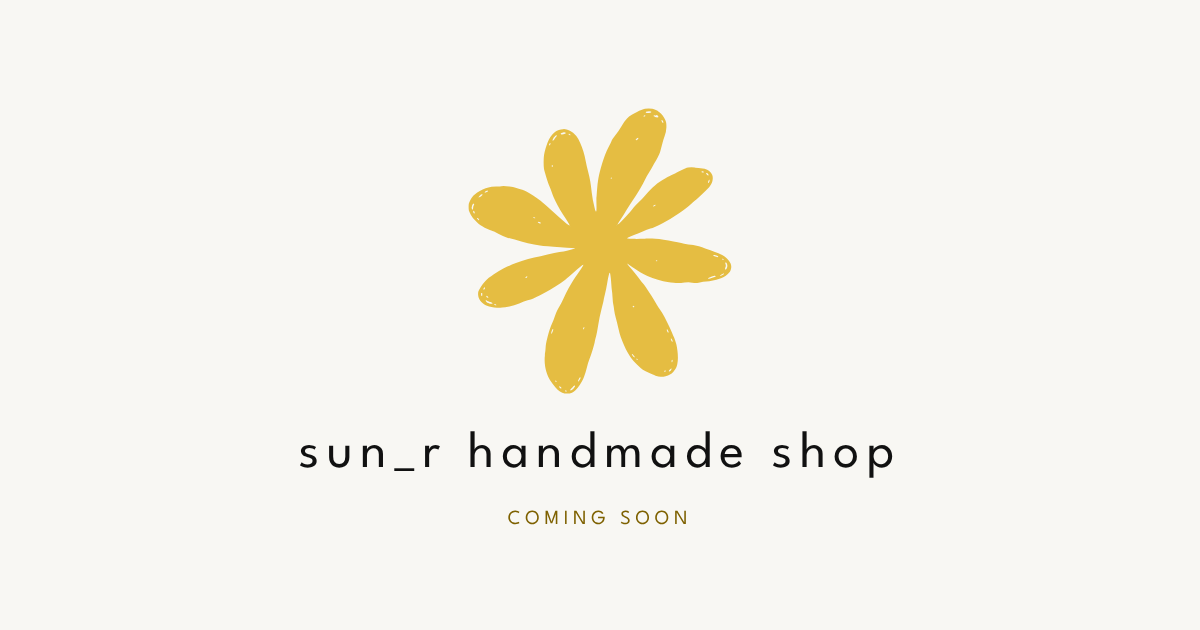
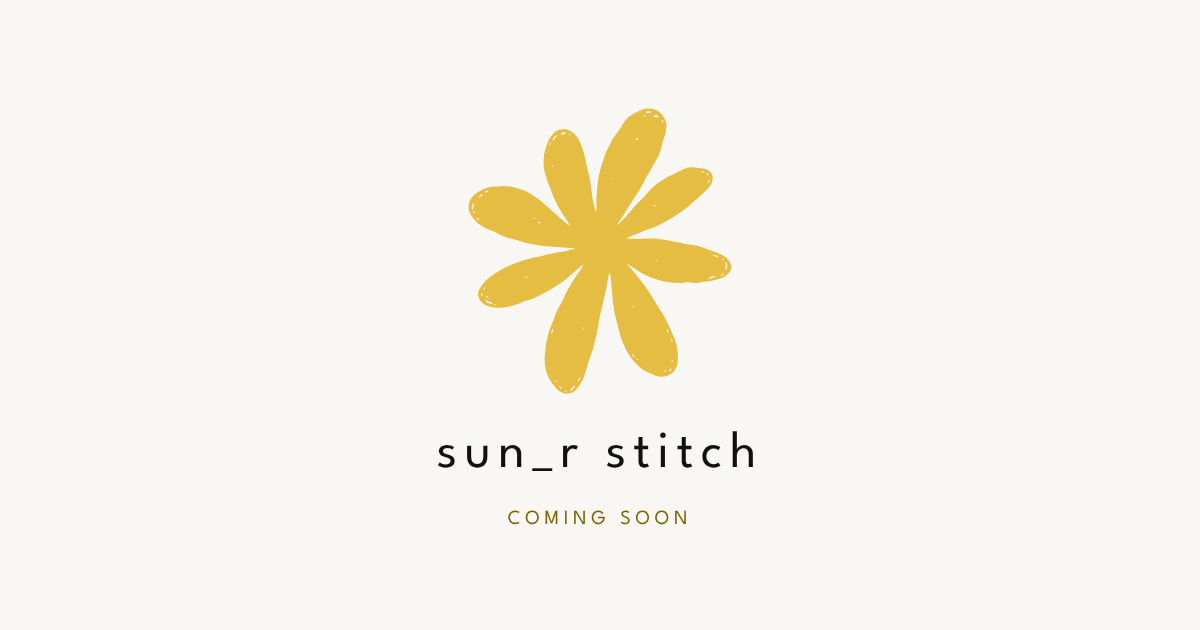
ブランド名を sun_r の頭文字に合わせて改名（stitch・useful・nail・renovation）
handmade shop→stitch、creative→useful、build→renovation。並び順も s・u・n・r に。URL は変更なし

Claude-Session: https://claude.ai/code/session_01XpsQxmtzfTpmSdUz357qFE

Changed region(s): [[0.2467, 0.6937, 0.74, 0.754]]

diff --git a/public/index.html b/public/index.html
@@ -4,12 +4,12 @@
 <meta charset="utf-8">
 <meta name="viewport" content="width=device-width, initial-scale=1">
 <title>sun_r brands</title>
-<meta name="description" content="sun_r brands — ネイルサロン sun_r nail、ハンドメイドショップ sun_r handmade shop、アプリ制作 sun_r creative、キッチン施工 sun_r build。">
+<meta name="description" content="sun_r brands — ハンドメイドショップ sun_r stitch、アプリ制作 sun_r useful、ネイルサロン sun_r nail、キッチン施工 sun_r renovation。">
 <link rel="canonical" href="https://sun-r-brands.pages.dev/">
 <meta property="og:type" content="website">
 <meta property="og:site_name" content="sun_r brands">
 <meta property="og:title" content="sun_r brands">
-<meta property="og:description" content="sun_r brands — ネイルサロン sun_r nail、ハンドメイドショップ sun_r handmade shop、アプリ制作 sun_r creative、キッチン施工 sun_r build。">
+<meta property="og:description" content="sun_r brands — ハンドメイドショップ sun_r stitch、アプリ制作 sun_r useful、ネイルサロン sun_r nail、キッチン施工 sun_r renovation。">
 <meta property="og:url" content="https://sun-r-brands.pages.dev/">
 <meta property="og:image" content="https://sun-r-brands.pages.dev/images/og-brands.png">
 <meta property="og:image:width" content="1200">
@@ -102,10 +102,10 @@ a.brand-row:active p:first-of-type,a.work-link:active p:first-of-type{color:#111
 <div class="wrap" style="display: flex; align-items: center; justify-content: space-between; gap: 24px; height: 76px">
 <a href="index.html" class="header-logo" style="text-decoration: none; display: flex; align-items: center; gap: 10px; font-family: 'League Spartan', sans-serif; font-weight: 400; font-size: 20px; letter-spacing: 0.12em; white-space: nowrap"><img src="images/logo-black.svg" alt="" width="36" height="36" style="width: 36px; height: 36px; display: block">sun_r brands</a>
 <nav class="navlinks" style="display: flex; gap: 36px; font-size: 13px; font-family: 'League Spartan', sans-serif; letter-spacing: 0.12em">
+<a href="shop.html" style="text-decoration: none">STITCH</a>
+<a href="creative.html" style="text-decoration: none">USEFUL</a>
 <a href="https://sun-r-nail.pages.dev/" data-nail-link target="_blank" rel="noopener" style="text-decoration: none">NAIL</a>
-<a href="shop.html" style="text-decoration: none">HANDMADE</a>
-<a href="creative.html" style="text-decoration: none">CREATIVE</a>
-<a href="build.html" style="text-decoration: none">BUILD</a>
+<a href="build.html" style="text-decoration: none">RENOVATION</a>
 </nav>
 <div style="display: flex; align-items: center; gap: 8px; flex: none"></div>
 </div>
@@ -114,7 +114,7 @@ a.brand-row:active p:first-of-type,a.work-link:active p:first-of-type{color:#111
 <div class="wrap hero">
 <div style="display: flex; flex-direction: column; align-items: center; text-align: center; gap: 24px">
 <h1 class="hero-logo" style="margin: 0"><img src="images/logo-black.svg" alt="sun_r" width="220" height="220" style="width: clamp(160px,20vw,220px); height: auto; display: block"></h1>
-<div class="hero-rise d1" style="display: flex; flex-direction: column; align-items: center; gap: 6px"><p style="margin: 0; font-family: 'League Spartan', sans-serif; font-weight: 400; font-size: clamp(28px,3.4vw,36px); letter-spacing: 0.14em; line-height: 1.2">sun_r</p><p class="label hero-links" style="margin: 0"><a href="https://sun-r-nail.pages.dev/" data-nail-link target="_blank" rel="noopener" style="text-decoration: none; color: inherit">NAIL</a> ・ <a href="shop.html" style="text-decoration: none; color: inherit">HANDMADE</a> ・ <a href="creative.html" style="text-decoration: none; color: inherit">CREATIVE</a> ・ <a href="build.html" style="text-decoration: none; color: inherit">BUILD</a></p></div>
+<div class="hero-rise d1" style="display: flex; flex-direction: column; align-items: center; gap: 6px"><p style="margin: 0; font-family: 'League Spartan', sans-serif; font-weight: 400; font-size: clamp(28px,3.4vw,36px); letter-spacing: 0.14em; line-height: 1.2">sun_r</p><p class="label hero-links" style="margin: 0"><a href="shop.html" style="text-decoration: none; color: inherit">STITCH</a> ・ <a href="creative.html" style="text-decoration: none; color: inherit">USEFUL</a> ・ <a href="https://sun-r-nail.pages.dev/" data-nail-link target="_blank" rel="noopener" style="text-decoration: none; color: inherit">NAIL</a> ・ <a href="build.html" style="text-decoration: none; color: inherit">RENOVATION</a></p></div>
 </div>
 </div>
 </section>
@@ -126,6 +126,22 @@ a.brand-row:active p:first-of-type,a.work-link:active p:first-of-type{color:#111
 <h2 style="margin: 0; font-family: 'League Spartan', sans-serif; font-weight: 400; font-size: clamp(26px,3vw,34px); letter-spacing: 0.1em; line-height: 1.3">sun_r brands</h2>
 </div>
 <div class="stagger" style="border-top: 1px solid #E6E1DB">
+<a href="shop.html" class="brand-row" style="text-decoration: none; color: inherit; display: flex; align-items: center; gap: clamp(16px,3vw,32px); padding: clamp(22px,3vw,32px) 0; border-bottom: 1px solid #E6E1DB">
+<span class="pop" style="position: relative; flex: none; display: block; width: clamp(34px,3.4vw,42px);"><img src="images/logo-yellow.svg" alt="" width="64" height="64" style="width: 100%; height: auto; display: block"></span>
+<div style="flex: 1 1 auto; min-width: 0">
+<p style="margin: 0; font-family: 'League Spartan', sans-serif; font-size: clamp(20px,2.4vw,26px); letter-spacing: 0.1em; line-height: 1.3;">stitch</p>
+<p style="margin: 4px 0 0; color: #555555; font-size: 14px">プリザーブドフラワーなどのハンドメイド作品</p>
+</div>
+<span class="brand-go" style="flex: none; font-family: 'League Spartan', sans-serif; font-size: 12px; letter-spacing: 0.18em; color: #7E6100; white-space: nowrap">COMING SOON</span>
+</a>
+<a href="creative.html" class="brand-row" style="text-decoration: none; color: inherit; display: flex; align-items: center; gap: clamp(16px,3vw,32px); padding: clamp(22px,3vw,32px) 0; border-bottom: 1px solid #E6E1DB">
+<span class="pop" style="position: relative; flex: none; display: block; width: clamp(34px,3.4vw,42px);"><img src="images/logo-greige.svg" alt="" width="64" height="64" style="width: 100%; height: auto; display: block"></span>
+<div style="flex: 1 1 auto; min-width: 0">
+<p style="margin: 0; font-family: 'League Spartan', sans-serif; font-size: clamp(20px,2.4vw,26px); letter-spacing: 0.1em; line-height: 1.3;">useful</p>
+<p style="margin: 4px 0 0; color: #555555; font-size: 14px">S/TOOL・NURS など、アプリとツールの制作</p>
+</div>
+<span class="brand-go" style="flex: none; font-family: 'League Spartan', sans-serif; font-size: 12px; letter-spacing: 0.18em; color: #6B5F53; white-space: nowrap">VIEW →</span>
+</a>
 <a href="https://sun-r-nail.pages.dev/" data-nail-link target="_blank" rel="noopener" class="brand-row" style="text-decoration: none; color: inherit; display: flex; align-items: center; gap: clamp(16px,3vw,32px); padding: clamp(22px,3vw,32px) 0; border-bottom: 1px solid #E6E1DB">
 <span class="pop" style="position: relative; flex: none; display: block; width: clamp(34px,3.4vw,42px);"><img src="images/logo-blue.svg" alt="" width="64" height="64" style="width: 100%; height: auto; display: block"></span>
 <div style="flex: 1 1 auto; min-width: 0">
@@ -134,26 +150,10 @@ a.brand-row:active p:first-of-type,a.work-link:active p:first-of-type{color:#111
 </div>
 <span class="brand-go" style="flex: none; font-family: 'League Spartan', sans-serif; font-size: 12px; letter-spacing: 0.18em; color: #134CA5; white-space: nowrap">VIEW →</span>
 </a>
-<a href="shop.html" class="brand-row" style="text-decoration: none; color: inherit; display: flex; align-items: center; gap: clamp(16px,3vw,32px); padding: clamp(22px,3vw,32px) 0; border-bottom: 1px solid #E6E1DB">
-<span class="pop" style="position: relative; flex: none; display: block; width: clamp(34px,3.4vw,42px);"><img src="images/logo-yellow.svg" alt="" width="64" height="64" style="width: 100%; height: auto; display: block"></span>
-<div style="flex: 1 1 auto; min-width: 0">
-<p style="margin: 0; font-family: 'League Spartan', sans-serif; font-size: clamp(20px,2.4vw,26px); letter-spacing: 0.1em; line-height: 1.3;">handmade shop</p>
-<p style="margin: 4px 0 0; color: #555555; font-size: 14px">プリザーブドフラワーなどのハンドメイド作品</p>
-</div>
-<span class="brand-go" style="flex: none; font-family: 'League Spartan', sans-serif; font-size: 12px; letter-spacing: 0.18em; color: #7E6100; white-space: nowrap">COMING SOON</span>
-</a>
-<a href="creative.html" class="brand-row" style="text-decoration: none; color: inherit; display: flex; align-items: center; gap: clamp(16px,3vw,32px); padding: clamp(22px,3vw,32px) 0; border-bottom: 1px solid #E6E1DB">
-<span class="pop" style="position: relative; flex: none; display: block; width: clamp(34px,3.4vw,42px);"><img src="images/logo-greige.svg" alt="" width="64" height="64" style="width: 100%; height: auto; display: block"></span>
-<div style="flex: 1 1 auto; min-width: 0">
-<p style="margin: 0; font-family: 'League Spartan', sans-serif; font-size: clamp(20px,2.4vw,26px); letter-spacing: 0.1em; line-height: 1.3;">creative</p>
-<p style="margin: 4px 0 0; color: #555555; font-size: 14px">S/TOOL・NURS など、アプリとツールの制作</p>
-</div>
-<span class="brand-go" style="flex: none; font-family: 'League Spartan', sans-serif; font-size: 12px; letter-spacing: 0.18em; color: #6B5F53; white-space: nowrap">VIEW →</span>
-</a>
 <a href="build.html" class="brand-row" style="text-decoration: none; color: inherit; display: flex; align-items: center; gap: clamp(16px,3vw,32px); padding: clamp(22px,3vw,32px) 0; border-bottom: 1px solid #E6E1DB">
 <span class="pop" style="position: relative; flex: none; display: block; width: clamp(34px,3.4vw,42px);"><img src="images/logo-orange.svg" alt="" width="64" height="64" style="width: 100%; height: auto; display: block"></span>
 <div style="flex: 1 1 auto; min-width: 0">
-<p style="margin: 0; font-family: 'League Spartan', sans-serif; font-size: clamp(20px,2.4vw,26px); letter-spacing: 0.1em; line-height: 1.3;">build</p>
+<p style="margin: 0; font-family: 'League Spartan', sans-serif; font-size: clamp(20px,2.4vw,26px); letter-spacing: 0.1em; line-height: 1.3;">renovation</p>
 <p style="margin: 4px 0 0; color: #555555; font-size: 14px">キッチンの施工会社</p>
 </div>
 <span class="brand-go" style="flex: none; font-family: 'League Spartan', sans-serif; font-size: 12px; letter-spacing: 0.18em; color: #AE5112; white-space: nowrap">COMING SOON</span>
@@ -170,11 +170,11 @@ a.brand-row:active p:first-of-type,a.work-link:active p:first-of-type{color:#111
 <p style="margin: 8px 0 0; color: #555555; font-size: 14px">sun_r の一文字ずつに、それぞれのブランドが入っています。</p>
 </div>
 <div class="name-grid stagger">
-<a class="name-cell" href="shop.html" style="text-decoration: none; color: inherit"><span class="name-letter" style="color: #7E6100">s</span><span class="name-text"><span class="name-word">stitch</span><span class="name-brand">handmade shop</span></span></a>
-<a class="name-cell" href="creative.html" style="text-decoration: none; color: inherit"><span class="name-letter" style="color: #6B5F53">u</span><span class="name-text"><span class="name-word">useful</span><span class="name-brand">creative</span></span></a>
-<a class="name-cell" href="https://sun-r-nail.pages.dev/" data-nail-link target="_blank" rel="noopener" style="text-decoration: none; color: inherit"><span class="name-letter" style="color: #134CA5">n</span><span class="name-text"><span class="name-word">nail</span><span class="name-brand">nail</span></span></a>
+<a class="name-cell" href="shop.html" style="text-decoration: none; color: inherit"><span class="name-letter" style="color: #7E6100">s</span><span class="name-text"><span class="name-word">stitch</span><span class="name-brand">handmade</span></span></a>
+<a class="name-cell" href="creative.html" style="text-decoration: none; color: inherit"><span class="name-letter" style="color: #6B5F53">u</span><span class="name-text"><span class="name-word">useful</span><span class="name-brand">apps &amp; tools</span></span></a>
+<a class="name-cell" href="https://sun-r-nail.pages.dev/" data-nail-link target="_blank" rel="noopener" style="text-decoration: none; color: inherit"><span class="name-letter" style="color: #134CA5">n</span><span class="name-text"><span class="name-word">nail</span><span class="name-brand">nail salon</span></span></a>
 <a class="name-cell" href="#brands" style="text-decoration: none; color: inherit"><span class="name-letter" style="color: #111111">_</span><span class="name-text"><span class="name-word">link</span><span class="name-brand">all brands</span></span></a>
-<a class="name-cell" href="build.html" style="text-decoration: none; color: inherit"><span class="name-letter" style="color: #AE5112">r</span><span class="name-text"><span class="name-word">renovation</span><span class="name-brand">build</span></span></a>
+<a class="name-cell" href="build.html" style="text-decoration: none; color: inherit"><span class="name-letter" style="color: #AE5112">r</span><span class="name-text"><span class="name-word">renovation</span><span class="name-brand">kitchen</span></span></a>
 </div>
 </div>
 </section>
@@ -192,7 +192,7 @@ a.brand-row:active p:first-of-type,a.work-link:active p:first-of-type{color:#111
 
 <footer style="border-top: 1px solid #E6E1DB; padding: 40px 0">
 <div class="wrap" style="display: flex; flex-wrap: wrap; justify-content: space-between; align-items: center; gap: 16px; font-size: 12px; color: #6B6B6B">
-<nav aria-label="sun_r のブランド" style="display: flex; flex-wrap: wrap; gap: 8px 20px; font-family: 'League Spartan', sans-serif; font-size: 13px; letter-spacing: 0.08em"><span aria-current="page" style="color: #111111">sun_r brands</span><a href="https://sun-r-nail.pages.dev/" data-nail-link target="_blank" rel="noopener" style="text-decoration: none; color: #6B6B6B">sun_r nail</a><a href="shop.html" style="text-decoration: none; color: #6B6B6B">handmade shop</a><a href="creative.html" style="text-decoration: none; color: #6B6B6B">creative</a><a href="build.html" style="text-decoration: none; color: #6B6B6B">build</a></nav>
+<nav aria-label="sun_r のブランド" style="display: flex; flex-wrap: wrap; gap: 8px 20px; font-family: 'League Spartan', sans-serif; font-size: 13px; letter-spacing: 0.08em"><span aria-current="page" style="color: #111111">sun_r brands</span><a href="shop.html" style="text-decoration: none; color: #6B6B6B">stitch</a><a href="creative.html" style="text-decoration: none; color: #6B6B6B">useful</a><a href="https://sun-r-nail.pages.dev/" data-nail-link target="_blank" rel="noopener" style="text-decoration: none; color: #6B6B6B">sun_r nail</a><a href="build.html" style="text-decoration: none; color: #6B6B6B">renovation</a></nav>
 <span style="font-family: 'League Spartan', sans-serif; letter-spacing: 0.08em">© sun_r</span>
 </div>
 </footer>

diff --git a/public/shop.html b/public/shop.html
@@ -3,13 +3,13 @@
 <head>
 <meta charset="utf-8">
 <meta name="viewport" content="width=device-width, initial-scale=1">
-<title>sun_r handmade shop｜COMING SOON</title>
-<meta name="description" content="sun_r handmade shop — プリザーブドフラワーなどのハンドメイド作品のショップ（オープン準備中）。">
+<title>sun_r stitch｜COMING SOON</title>
+<meta name="description" content="sun_r stitch — プリザーブドフラワーなどのハンドメイド作品のショップ（オープン準備中）。">
 <link rel="canonical" href="https://sun-r-brands.pages.dev/shop">
 <meta property="og:type" content="website">
 <meta property="og:site_name" content="sun_r brands">
-<meta property="og:title" content="sun_r handmade shop｜COMING SOON">
-<meta property="og:description" content="sun_r handmade shop — プリザーブドフラワーなどのハンドメイド作品のショップ（オープン準備中）。">
+<meta property="og:title" content="sun_r stitch｜COMING SOON">
+<meta property="og:description" content="sun_r stitch — プリザーブドフラワーなどのハンドメイド作品のショップ（オープン準備中）。">
 <meta property="og:url" content="https://sun-r-brands.pages.dev/shop">
 <meta property="og:image" content="https://sun-r-brands.pages.dev/images/og-shop.png">
 <meta property="og:image:width" content="1200">
@@ -86,7 +86,7 @@ a.brand-row:active p:first-of-type,a.work-link:active p:first-of-type{color:#111
 <div style="font-family: 'Noto Sans JP', 'Hiragino Sans', sans-serif; color: #111111; background: #F8F7F3; font-size: 16px; line-height: 1.9">
 <header style="border-bottom: 1px solid #E6E1DB; background: #F8F7F3">
 <div class="wrap" style="display: flex; align-items: center; justify-content: space-between; gap: 24px; height: 76px">
-<a href="index.html" class="header-logo" style="text-decoration: none; display: flex; align-items: center; gap: 10px; font-family: 'League Spartan', sans-serif; font-weight: 400; font-size: 20px; letter-spacing: 0.12em; white-space: nowrap"><img src="images/logo-yellow.svg" alt="" width="36" height="36" style="width: 36px; height: 36px; display: block">sun_r handmade shop</a>
+<a href="index.html" class="header-logo" style="text-decoration: none; display: flex; align-items: center; gap: 10px; font-family: 'League Spartan', sans-serif; font-weight: 400; font-size: 20px; letter-spacing: 0.12em; white-space: nowrap"><img src="images/logo-yellow.svg" alt="" width="36" height="36" style="width: 36px; height: 36px; display: block">sun_r stitch</a>
 <nav class="navlinks" style="display: flex; gap: 36px; font-size: 13px; font-family: 'League Spartan', sans-serif; letter-spacing: 0.12em">
 <a href="#items" style="text-decoration: none">ITEMS</a>
 <a href="#news" style="text-decoration: none">NEWS</a>
@@ -97,8 +97,8 @@ a.brand-row:active p:first-of-type,a.work-link:active p:first-of-type{color:#111
 <section id="top" style="padding: clamp(96px,16vw,200px) 0 clamp(80px,12vw,160px)">
 <div class="wrap hero">
 <div style="display: flex; flex-direction: column; align-items: center; text-align: center; gap: 24px">
-<h1 class="hero-logo" style="margin: 0; display: inline-block"><span class="hero-mark" style="position: relative; display: block"><img src="images/logo-yellow.svg" alt="sun_r handmade shop" width="220" height="220" style="width: clamp(160px,20vw,220px); height: auto; display: block"></span></h1>
-<div class="hero-rise d1" style="display: flex; flex-direction: column; align-items: center; gap: 6px"><p style="margin: 0; font-family: 'League Spartan', sans-serif; font-weight: 400; font-size: clamp(26px,3.2vw,34px); letter-spacing: 0.14em; line-height: 1.2; color: #111111">sun_r handmade shop</p><p class="label" style="margin: 0">PRESERVED FLOWER &amp; HANDMADE</p></div>
+<h1 class="hero-logo" style="margin: 0; display: inline-block"><span class="hero-mark" style="position: relative; display: block"><img src="images/logo-yellow.svg" alt="sun_r stitch" width="220" height="220" style="width: clamp(160px,20vw,220px); height: auto; display: block"></span></h1>
+<div class="hero-rise d1" style="display: flex; flex-direction: column; align-items: center; gap: 6px"><p style="margin: 0; font-family: 'League Spartan', sans-serif; font-weight: 400; font-size: clamp(26px,3.2vw,34px); letter-spacing: 0.14em; line-height: 1.2; color: #111111">sun_r stitch</p><p class="label" style="margin: 0">PRESERVED FLOWER &amp; HANDMADE</p></div>
 <div class="hero-rise d2" style="margin-top: 16px"><span style="display: inline-block; border: 1px solid #7E6100; color: #7E6100; border-radius: 999px; padding: 10px 26px; font-family: 'League Spartan', sans-serif; font-size: 13px; letter-spacing: 0.24em">COMING SOON</span></div>
 </div>
 </div>
@@ -132,7 +132,7 @@ a.brand-row:active p:first-of-type,a.work-link:active p:first-of-type{color:#111
 
 <footer style="border-top: 1px solid #E6E1DB; padding: 40px 0">
 <div class="wrap" style="display: flex; flex-wrap: wrap; justify-content: space-between; align-items: center; gap: 16px; font-size: 12px; color: #6B6B6B">
-<nav aria-label="sun_r のブランド" style="display: flex; flex-wrap: wrap; gap: 8px 20px; font-family: 'League Spartan', sans-serif; font-size: 13px; letter-spacing: 0.08em"><a href="index.html" style="text-decoration: none; color: #6B6B6B">sun_r brands</a><a href="https://sun-r-nail.pages.dev/" data-nail-link target="_blank" rel="noopener" style="text-decoration: none; color: #6B6B6B">sun_r nail</a><span aria-current="page" style="color: #111111">handmade shop</span><a href="creative.html" style="text-decoration: none; color: #6B6B6B">creative</a><a href="build.html" style="text-decoration: none; color: #6B6B6B">build</a></nav>
+<nav aria-label="sun_r のブランド" style="display: flex; flex-wrap: wrap; gap: 8px 20px; font-family: 'League Spartan', sans-serif; font-size: 13px; letter-spacing: 0.08em"><a href="index.html" style="text-decoration: none; color: #6B6B6B">sun_r brands</a><span aria-current="page" style="color: #111111">stitch</span><a href="creative.html" style="text-decoration: none; color: #6B6B6B">useful</a><a href="https://sun-r-nail.pages.dev/" data-nail-link target="_blank" rel="noopener" style="text-decoration: none; color: #6B6B6B">sun_r nail</a><a href="build.html" style="text-decoration: none; color: #6B6B6B">renovation</a></nav>
 <span style="font-family: 'League Spartan', sans-serif; letter-spacing: 0.08em">© sun_r</span>
 </div>
 </footer>

diff --git a/public/build.html b/public/build.html
@@ -3,13 +3,13 @@
 <head>
 <meta charset="utf-8">
 <meta name="viewport" content="width=device-width, initial-scale=1">
-<title>sun_r build｜COMING SOON</title>
-<meta name="description" content="sun_r build — キッチンの施工を手がける、sun_r の施工会社（ホームページ準備中）。">
+<title>sun_r renovation｜COMING SOON</title>
+<meta name="description" content="sun_r renovation — キッチンの施工を手がける、sun_r の施工会社（ホームページ準備中）。">
 <link rel="canonical" href="https://sun-r-brands.pages.dev/build">
 <meta property="og:type" content="website">
 <meta property="og:site_name" content="sun_r brands">
-<meta property="og:title" content="sun_r build｜COMING SOON">
-<meta property="og:description" content="sun_r build — キッチンの施工を手がける、sun_r の施工会社（ホームページ準備中）。">
+<meta property="og:title" content="sun_r renovation｜COMING SOON">
+<meta property="og:description" content="sun_r renovation — キッチンの施工を手がける、sun_r の施工会社（ホームページ準備中）。">
 <meta property="og:url" content="https://sun-r-brands.pages.dev/build">
 <meta property="og:image" content="https://sun-r-brands.pages.dev/images/og-build.png">
 <meta property="og:image:width" content="1200">
@@ -86,7 +86,7 @@ a.brand-row:active p:first-of-type,a.work-link:active p:first-of-type{color:#111
 <div style="font-family: 'Noto Sans JP', 'Hiragino Sans', sans-serif; color: #111111; background: #F8F7F3; font-size: 16px; line-height: 1.9">
 <header style="border-bottom: 1px solid #E6E1DB; background: #F8F7F3">
 <div class="wrap" style="display: flex; align-items: center; justify-content: space-between; gap: 24px; height: 76px">
-<a href="index.html" class="header-logo" style="text-decoration: none; display: flex; align-items: center; gap: 10px; font-family: 'League Spartan', sans-serif; font-weight: 400; font-size: 20px; letter-spacing: 0.12em; white-space: nowrap"><img src="images/logo-orange.svg" alt="" width="36" height="36" style="width: 36px; height: 36px; display: block">sun_r build</a>
+<a href="index.html" class="header-logo" style="text-decoration: none; display: flex; align-items: center; gap: 10px; font-family: 'League Spartan', sans-serif; font-weight: 400; font-size: 20px; letter-spacing: 0.12em; white-space: nowrap"><img src="images/logo-orange.svg" alt="" width="36" height="36" style="width: 36px; height: 36px; display: block">sun_r renovation</a>
 <nav class="navlinks" style="display: flex; gap: 36px; font-size: 13px; font-family: 'League Spartan', sans-serif; letter-spacing: 0.12em">
 <a href="#service" style="text-decoration: none">SERVICE</a>
 <a href="#news" style="text-decoration: none">NEWS</a>
@@ -97,8 +97,8 @@ a.brand-row:active p:first-of-type,a.work-link:active p:first-of-type{color:#111
 <section id="top" style="padding: clamp(96px,16vw,200px) 0 clamp(80px,12vw,160px)">
 <div class="wrap hero">
 <div style="display: flex; flex-direction: column; align-items: center; text-align: center; gap: 24px">
-<h1 class="hero-logo" style="margin: 0; display: inline-block"><span class="hero-mark" style="position: relative; display: block"><img src="images/logo-orange.svg" alt="sun_r build" width="220" height="220" style="width: clamp(160px,20vw,220px); height: auto; display: block"></span></h1>
-<div class="hero-rise d1" style="display: flex; flex-direction: column; align-items: center; gap: 6px"><p style="margin: 0; font-family: 'League Spartan', sans-serif; font-weight: 400; font-size: clamp(26px,3.2vw,34px); letter-spacing: 0.14em; line-height: 1.2; color: #111111">sun_r build</p><p class="label" style="margin: 0">KITCHEN CONSTRUCTION</p></div>
+<h1 class="hero-logo" style="margin: 0; display: inline-block"><span class="hero-mark" style="position: relative; display: block"><img src="images/logo-orange.svg" alt="sun_r renovation" width="220" height="220" style="width: clamp(160px,20vw,220px); height: auto; display: block"></span></h1>
+<div class="hero-rise d1" style="display: flex; flex-direction: column; align-items: center; gap: 6px"><p style="margin: 0; font-family: 'League Spartan', sans-serif; font-weight: 400; font-size: clamp(26px,3.2vw,34px); letter-spacing: 0.14em; line-height: 1.2; color: #111111">sun_r renovation</p><p class="label" style="margin: 0">KITCHEN CONSTRUCTION</p></div>
 <div class="hero-rise d2" style="margin-top: 16px"><span style="display: inline-block; border: 1px solid #AE5112; color: #AE5112; border-radius: 999px; padding: 10px 26px; font-family: 'League Spartan', sans-serif; font-size: 13px; letter-spacing: 0.24em">COMING SOON</span></div>
 </div>
 </div>
@@ -129,7 +129,7 @@ a.brand-row:active p:first-of-type,a.work-link:active p:first-of-type{color:#111
 
 <footer style="border-top: 1px solid #E6E1DB; padding: 40px 0">
 <div class="wrap" style="display: flex; flex-wrap: wrap; justify-content: space-between; align-items: center; gap: 16px; font-size: 12px; color: #6B6B6B">
-<nav aria-label="sun_r のブランド" style="display: flex; flex-wrap: wrap; gap: 8px 20px; font-family: 'League Spartan', sans-serif; font-size: 13px; letter-spacing: 0.08em"><a href="index.html" style="text-decoration: none; color: #6B6B6B">sun_r brands</a><a href="https://sun-r-nail.pages.dev/" data-nail-link target="_blank" rel="noopener" style="text-decoration: none; color: #6B6B6B">sun_r nail</a><a href="shop.html" style="text-decoration: none; color: #6B6B6B">handmade shop</a><a href="creative.html" style="text-decoration: none; color: #6B6B6B">creative</a><span aria-current="page" style="color: #111111">build</span></nav>
+<nav aria-label="sun_r のブランド" style="display: flex; flex-wrap: wrap; gap: 8px 20px; font-family: 'League Spartan', sans-serif; font-size: 13px; letter-spacing: 0.08em"><a href="index.html" style="text-decoration: none; color: #6B6B6B">sun_r brands</a><a href="shop.html" style="text-decoration: none; color: #6B6B6B">stitch</a><a href="creative.html" style="text-decoration: none; color: #6B6B6B">useful</a><a href="https://sun-r-nail.pages.dev/" data-nail-link target="_blank" rel="noopener" style="text-decoration: none; color: #6B6B6B">sun_r nail</a><span aria-current="page" style="color: #111111">renovation</span></nav>
 <span style="font-family: 'League Spartan', sans-serif; letter-spacing: 0.08em">© sun_r</span>
 </div>
 </footer>

diff --git a/public/creative.html b/public/creative.html
@@ -3,13 +3,13 @@
 <head>
 <meta charset="utf-8">
 <meta name="viewport" content="width=device-width, initial-scale=1">
-<title>sun_r creative</title>
-<meta name="description" content="sun_r creative — 個人事業 patch が開発・提供する、S/TOOL・NURS などのアプリとツール。">
+<title>sun_r useful</title>
+<meta name="description" content="sun_r useful — 個人事業 patch が開発・提供する、S/TOOL・NURS などのアプリとツール。">
 <link rel="canonical" href="https://sun-r-brands.pages.dev/creative">
 <meta property="og:type" content="website">
 <meta property="og:site_name" content="sun_r brands">
-<meta property="og:title" content="sun_r creative">
-<meta property="og:description" content="sun_r creative — 個人事業 patch が開発・提供する、S/TOOL・NURS などのアプリとツール。">
+<meta property="og:title" content="sun_r useful">
+<meta property="og:description" content="sun_r useful — 個人事業 patch が開発・提供する、S/TOOL・NURS などのアプリとツール。">
 <meta property="og:url" content="https://sun-r-brands.pages.dev/creative">
 <meta property="og:image" content="https://sun-r-brands.pages.dev/images/og-creative.png">
 <meta property="og:image:width" content="1200">
@@ -89,7 +89,7 @@ a.brand-row:active p:first-of-type,a.work-link:active p:first-of-type{color:#111
 <div style="font-family: 'Noto Sans JP', 'Hiragino Sans', sans-serif; color: #111111; background: #F8F7F3; font-size: 16px; line-height: 1.9">
 <header style="border-bottom: 1px solid #E6E1DB; background: #F8F7F3">
 <div class="wrap" style="display: flex; align-items: center; justify-content: space-between; gap: 24px; height: 76px">
-<a href="index.html" class="header-logo" style="text-decoration: none; display: flex; align-items: center; gap: 10px; font-family: 'League Spartan', sans-serif; font-weight: 400; font-size: 20px; letter-spacing: 0.12em; white-space: nowrap"><img src="images/logo-greige.svg" alt="" width="36" height="36" style="width: 36px; height: 36px; display: block">sun_r creative</a>
+<a href="index.html" class="header-logo" style="text-decoration: none; display: flex; align-items: center; gap: 10px; font-family: 'League Spartan', sans-serif; font-weight: 400; font-size: 20px; letter-spacing: 0.12em; white-space: nowrap"><img src="images/logo-greige.svg" alt="" width="36" height="36" style="width: 36px; height: 36px; display: block">sun_r useful</a>
 <nav class="navlinks" style="display: flex; gap: 36px; font-size: 13px; font-family: 'League Spartan', sans-serif; letter-spacing: 0.12em">
 <a href="#works" style="text-decoration: none">WORKS</a>
 </nav>
@@ -99,8 +99,8 @@ a.brand-row:active p:first-of-type,a.work-link:active p:first-of-type{color:#111
 <section id="top" style="padding: clamp(96px,16vw,200px) 0 clamp(80px,12vw,160px)">
 <div class="wrap hero">
 <div style="display: flex; flex-direction: column; align-items: center; text-align: center; gap: 24px">
-<h1 class="hero-logo" style="margin: 0; display: inline-block"><span class="hero-mark" style="position: relative; display: block"><img src="images/logo-greige.svg" alt="sun_r creative" width="220" height="220" style="width: clamp(160px,20vw,220px); height: auto; display: block"></span></h1>
-<div class="hero-rise d1" style="display: flex; flex-direction: column; align-items: center; gap: 6px"><p style="margin: 0; font-family: 'League Spartan', sans-serif; font-weight: 400; font-size: clamp(26px,3.2vw,34px); letter-spacing: 0.14em; line-height: 1.2; color: #111111">sun_r creative</p><p class="label" style="margin: 0">APPS &amp; TOOLS</p></div>
+<h1 class="hero-logo" style="margin: 0; display: inline-block"><span class="hero-mark" style="position: relative; display: block"><img src="images/logo-greige.svg" alt="sun_r useful" width="220" height="220" style="width: clamp(160px,20vw,220px); height: auto; display: block"></span></h1>
+<div class="hero-rise d1" style="display: flex; flex-direction: column; align-items: center; gap: 6px"><p style="margin: 0; font-family: 'League Spartan', sans-serif; font-weight: 400; font-size: clamp(26px,3.2vw,34px); letter-spacing: 0.14em; line-height: 1.2; color: #111111">sun_r useful</p><p class="label" style="margin: 0">APPS &amp; TOOLS</p></div>
 <div class="hero-rise d2" style="margin-top: 16px"><span style="display: inline-block; border: 1px solid #6B5F53; color: #6B5F53; border-radius: 999px; padding: 10px 26px; font-family: 'League Spartan', sans-serif; font-size: 13px; letter-spacing: 0.24em">IN DEVELOPMENT</span></div>
 </div>
 </div>
@@ -159,7 +159,7 @@ a.brand-row:active p:first-of-type,a.work-link:active p:first-of-type{color:#111
 
 <footer style="border-top: 1px solid #E6E1DB; padding: 40px 0">
 <div class="wrap" style="display: flex; flex-wrap: wrap; justify-content: space-between; align-items: center; gap: 16px; font-size: 12px; color: #6B6B6B">
-<nav aria-label="sun_r のブランド" style="display: flex; flex-wrap: wrap; gap: 8px 20px; font-family: 'League Spartan', sans-serif; font-size: 13px; letter-spacing: 0.08em"><a href="index.html" style="text-decoration: none; color: #6B6B6B">sun_r brands</a><a href="https://sun-r-nail.pages.dev/" data-nail-link target="_blank" rel="noopener" style="text-decoration: none; color: #6B6B6B">sun_r nail</a><a href="shop.html" style="text-decoration: none; color: #6B6B6B">handmade shop</a><span aria-current="page" style="color: #111111">creative</span><a href="build.html" style="text-decoration: none; color: #6B6B6B">build</a></nav>
+<nav aria-label="sun_r のブランド" style="display: flex; flex-wrap: wrap; gap: 8px 20px; font-family: 'League Spartan', sans-serif; font-size: 13px; letter-spacing: 0.08em"><a href="index.html" style="text-decoration: none; color: #6B6B6B">sun_r brands</a><a href="shop.html" style="text-decoration: none; color: #6B6B6B">stitch</a><span aria-current="page" style="color: #111111">useful</span><a href="https://sun-r-nail.pages.dev/" data-nail-link target="_blank" rel="noopener" style="text-decoration: none; color: #6B6B6B">sun_r nail</a><a href="build.html" style="text-decoration: none; color: #6B6B6B">renovation</a></nav>
 <span style="font-family: 'League Spartan', sans-serif; letter-spacing: 0.08em">© sun_r</span>
 </div>
 </footer>

diff --git a/public/404.html b/public/404.html
@@ -46,10 +46,10 @@ header{position:sticky;top:0;z-index:10}
 <div class="wrap" style="display: flex; align-items: center; justify-content: space-between; gap: 24px; height: 76px">
 <a href="/" class="header-logo" style="text-decoration: none; display: flex; align-items: center; gap: 10px; font-family: 'League Spartan', sans-serif; font-weight: 400; font-size: 20px; letter-spacing: 0.12em; white-space: nowrap"><img src="/images/logo-black.svg" alt="" width="36" height="36" style="width: 36px; height: 36px; display: block">sun_r brands</a>
 <nav class="navlinks" style="display: flex; gap: 36px; font-size: 13px; font-family: 'League Spartan', sans-serif; letter-spacing: 0.12em">
+<a href="/shop.html" style="text-decoration: none">STITCH</a>
+<a href="/creative.html" style="text-decoration: none">USEFUL</a>
 <a href="https://sun-r-nail.pages.dev/" data-nail-link target="_blank" rel="noopener" style="text-decoration: none">NAIL</a>
-<a href="/shop.html" style="text-decoration: none">HANDMADE</a>
-<a href="/creative.html" style="text-decoration: none">CREATIVE</a>
-<a href="/build.html" style="text-decoration: none">BUILD</a>
+<a href="/build.html" style="text-decoration: none">RENOVATION</a>
 </nav>
 </div>
 </header>
@@ -66,7 +66,7 @@ header{position:sticky;top:0;z-index:10}
 </main>
 <footer style="border-top: 1px solid #E6E1DB; padding: 40px 0">
 <div class="wrap" style="display: flex; flex-wrap: wrap; justify-content: space-between; align-items: center; gap: 16px; font-size: 12px; color: #6B6B6B">
-<nav aria-label="sun_r のブランド" style="display: flex; flex-wrap: wrap; gap: 8px 20px; font-family: 'League Spartan', sans-serif; font-size: 13px; letter-spacing: 0.08em"><a href="/" style="text-decoration: none; color: #6B6B6B">sun_r brands</a><a href="https://sun-r-nail.pages.dev/" data-nail-link target="_blank" rel="noopener" style="text-decoration: none; color: #6B6B6B">sun_r nail</a><a href="/shop.html" style="text-decoration: none; color: #6B6B6B">handmade shop</a><a href="/creative.html" style="text-decoration: none; color: #6B6B6B">creative</a><a href="/build.html" style="text-decoration: none; color: #6B6B6B">build</a></nav>
+<nav aria-label="sun_r のブランド" style="display: flex; flex-wrap: wrap; gap: 8px 20px; font-family: 'League Spartan', sans-serif; font-size: 13px; letter-spacing: 0.08em"><a href="/" style="text-decoration: none; color: #6B6B6B">sun_r brands</a><a href="/shop.html" style="text-decoration: none; color: #6B6B6B">stitch</a><a href="/creative.html" style="text-decoration: none; color: #6B6B6B">useful</a><a href="https://sun-r-nail.pages.dev/" data-nail-link target="_blank" rel="noopener" style="text-decoration: none; color: #6B6B6B">sun_r nail</a><a href="/build.html" style="text-decoration: none; color: #6B6B6B">renovation</a></nav>
 <span style="font-family: 'League Spartan', sans-serif; letter-spacing: 0.08em">© sun_r</span>
 </div>
 </footer>

diff --git a/CLAUDE.md b/CLAUDE.md
@@ -15,9 +15,9 @@ sun_r nail は別サイト・別リポジトリだが、上の作業ルールの
 ```
 public/
   index.html     ブランドトップ（4ブランドの入口）     黒の花
-  shop.html      sun_r handmade shop（COMING SOON）    マスタード
-  creative.html  sun_r creative（アプリ）               グレージュ
-  build.html     sun_r build（キッチン施工・COMING SOON） オレンジ
+  shop.html      sun_r stitch（旧 handmade shop・COMING SOON）  マスタード
+  creative.html  sun_r useful（旧 creative・アプリ）            グレージュ
+  build.html     sun_r renovation（旧 build・キッチン施工・COMING SOON） オレンジ
   images/        ロゴ（手描きの花：black/blue/orange/yellow/greige）、OGP画像（og-*.png）
 wrangler.jsonc   Cloudflare 設定（name: sun-r-brands）
 ```
@@ -25,11 +25,17 @@ wrangler.jsonc   Cloudflare 設定（name: sun-r-brands）
 | ブランド | 色（ロゴ／帯） | 文字用の濃い色 | 行き先 |
 |---|---|---|---|
 | sun_r nail | `#134CA5`（青い花 `logo-blue.svg`。nail サイトのロゴと同じ） | `#134CA5` | **外部サイト** https://sun-r-nail.pages.dev/ |
-| sun_r handmade shop | `#E5BD42`（帯の文字は黒） | `#7E6100` | shop.html |
-| sun_r creative | `#9A8C7E`（帯も同色・文字は黒） | `#6B5F53` | creative.html |
-| sun_r build | `#E2712A`（帯 `#AE5112`） | `#AE5112` | build.html |
+| sun_r stitch（旧 handmade shop） | `#E5BD42`（帯の文字は黒） | `#7E6100` | shop.html |
+| sun_r useful（旧 creative） | `#9A8C7E`（帯も同色・文字は黒） | `#6B5F53` | creative.html |
+| sun_r renovation（旧 build） | `#E2712A`（帯 `#AE5112`） | `#AE5112` | build.html |
 
 共通：背景 生成り `#F8F7F3`／本文 黒 `#111111`／英字 League Spartan Regular（オーナー支給の TTF を woff2 に変換し `public/fonts/league-spartan-regular.woff2` から自前で配信。SIL OFL）／和文 Noto Sans JP（2026-11-23 に Jost／Zen Kaku Gothic New から変更。英字は Smooch Sans・Science Gothic・Caveat・Knewave・Boogaloo・Sue Ellen Francisco・Pacifico・Abril Fatface・Cinzel・Special Elite・Mrs Saint Delafield・Abril Fatface を経て League Spartan に）。波の音は**入れない**（nail サイト専用）。
+
+## ブランド名（2026-11-23 変更）
+- sun_r の頭文字にそろえて改名：s＝**stitch**（旧 handmade shop）／u＝**useful**（旧 creative）／n＝**nail**／_＝つなぐ線／r＝**renovation**（旧 build）
+- 並び順はどこでも stitch・useful・nail・renovation（ヘッダー・フッター・トップの一覧・ヒーローのラベル）
+- URL（/shop・/creative・/build）とファイル名は変えていない（共有済みリンクを壊さないため）
+- 各ページのキャッチ（PRESERVED FLOWER & HANDMADE／APPS & TOOLS／KITCHEN CONSTRUCTION）や説明文はそのまま
 
 ## 公開前の仕上げ（済み）
 
